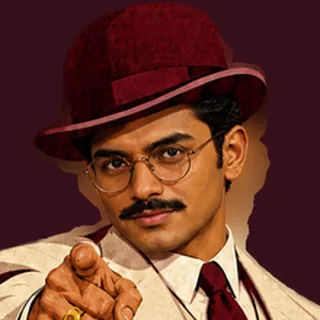
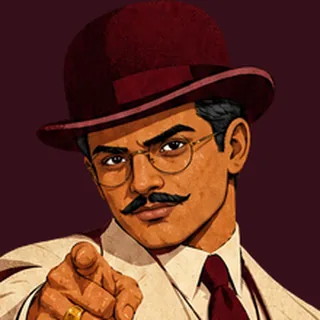
Character art: redo detective, gambler and dapper in the house style
- detective: young South Asian, round glasses (one edit from the original)
- gambler: same young Latino guy, stockier
- dapper: new young man in the tux, standing, champagne glass, no flashlight
- dapper faces front now, so nothing is listed as facing right

Claude-Session: https://claude.ai/code/session_011n5gPsd4ZZgTYeVzG34PYX

diff --git a/convex/figures.ts b/convex/figures.ts
@@ -13,8 +13,9 @@ export const FIGURE_SETS: { label: string; keys: string[] }[] = [
 export const FIGURE_KEYS = FIGURE_SETS.flatMap((s) => s.keys);
 export const isFigure = (k: unknown): k is string => typeof k === "string" && FIGURE_KEYS.includes(k);
 
-/** Which way a drawing faces, so walkers on the TV face where they're going. */
-export const FACES_RIGHT = ["dapper"];
+/** Which way a drawing faces, so walkers on the TV face where they're going. Drawings face
+ *  front or to the left unless listed here (none at the moment: dapper was redrawn facing front). */
+export const FACES_RIGHT: string[] = [];
 
 /** The drawings already picked in this game (optionally not counting one guest's own). */
 export async function takenFigures(ctx: QueryCtx, gameId: Id<"games">, except?: Id<"players">): Promise<Set<string>> {
